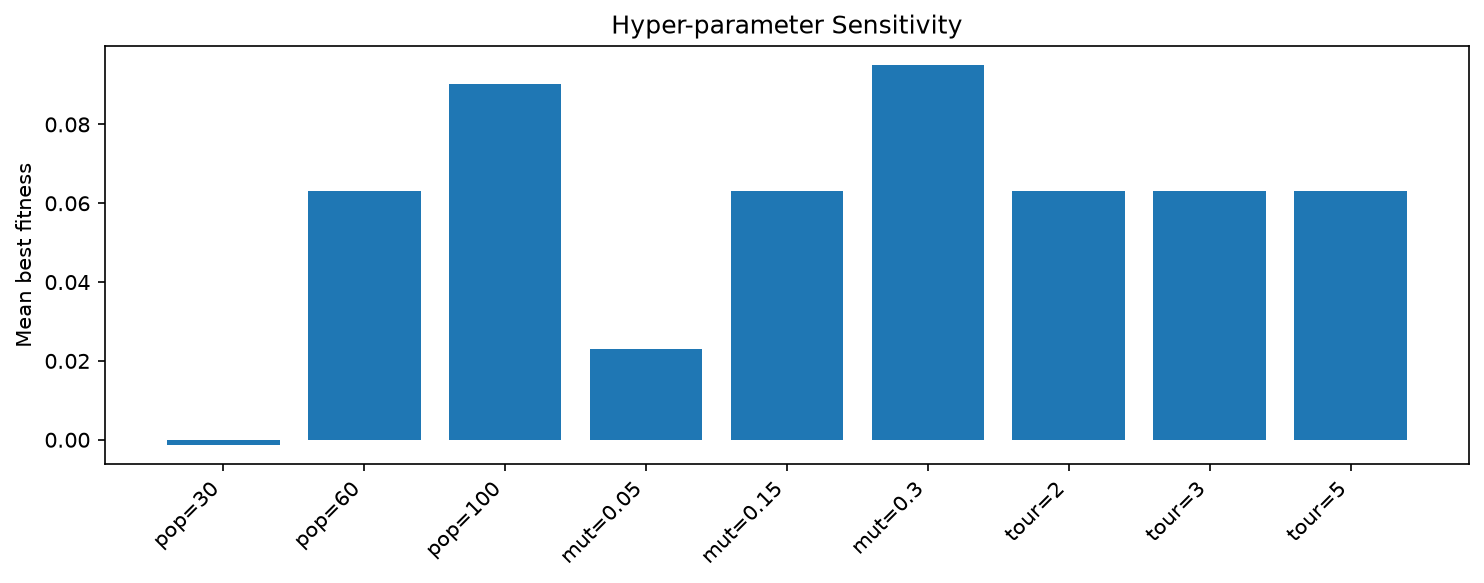
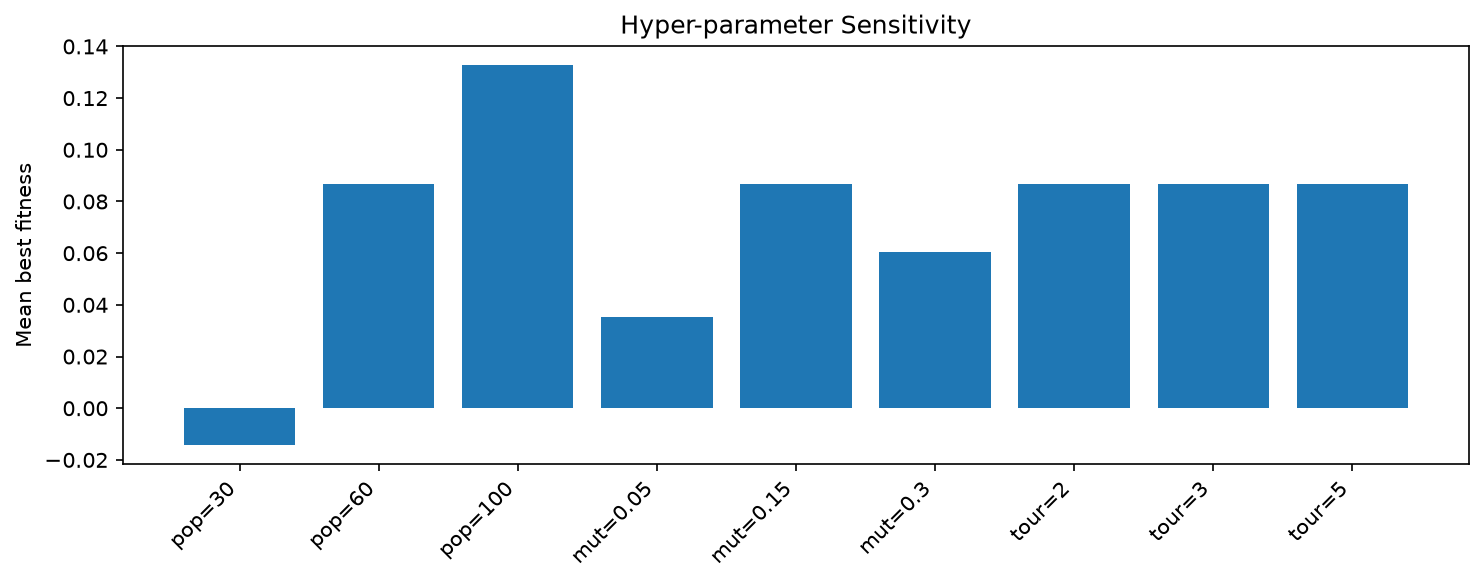
Add team names and correct sensitivity analysis (30 gens, 3 seeds)

diff --git a/README.md b/README.md
@@ -80,6 +80,6 @@ Produces results/fig6_sensitivity.png + results/sensitivity.json.
 - Runtime: ~38 s
 
 ## Team
-- Member 1 - Code + GitHub
-- Member 2 - Experiments + figures
-- Member 3 - Report
+- **Aqib Ali** (Roll: <YOUR-ROLL>) - Code + GitHub
+- **<TEAMMATE-2-NAME>** (Roll: <ROLL-2>) - Experiments + figures
+- **<TEAMMATE-3-NAME>** (Roll: <ROLL-3>) - Report
